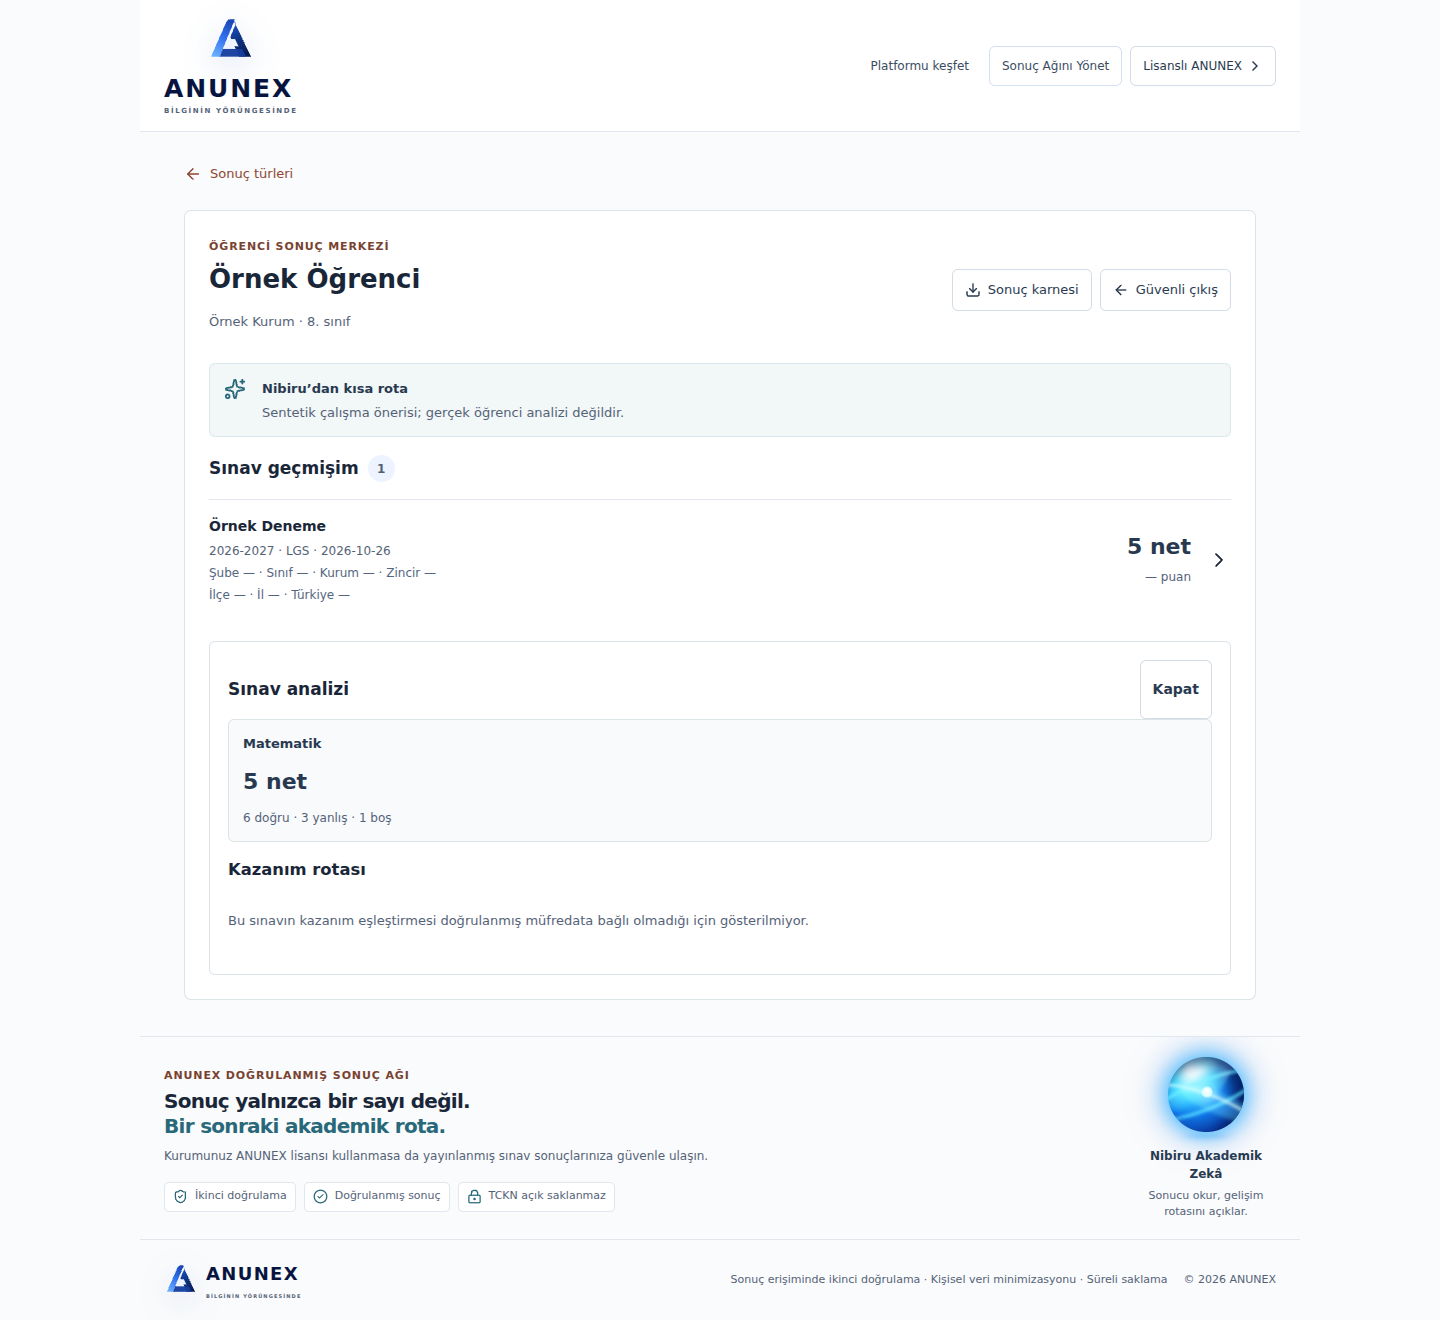
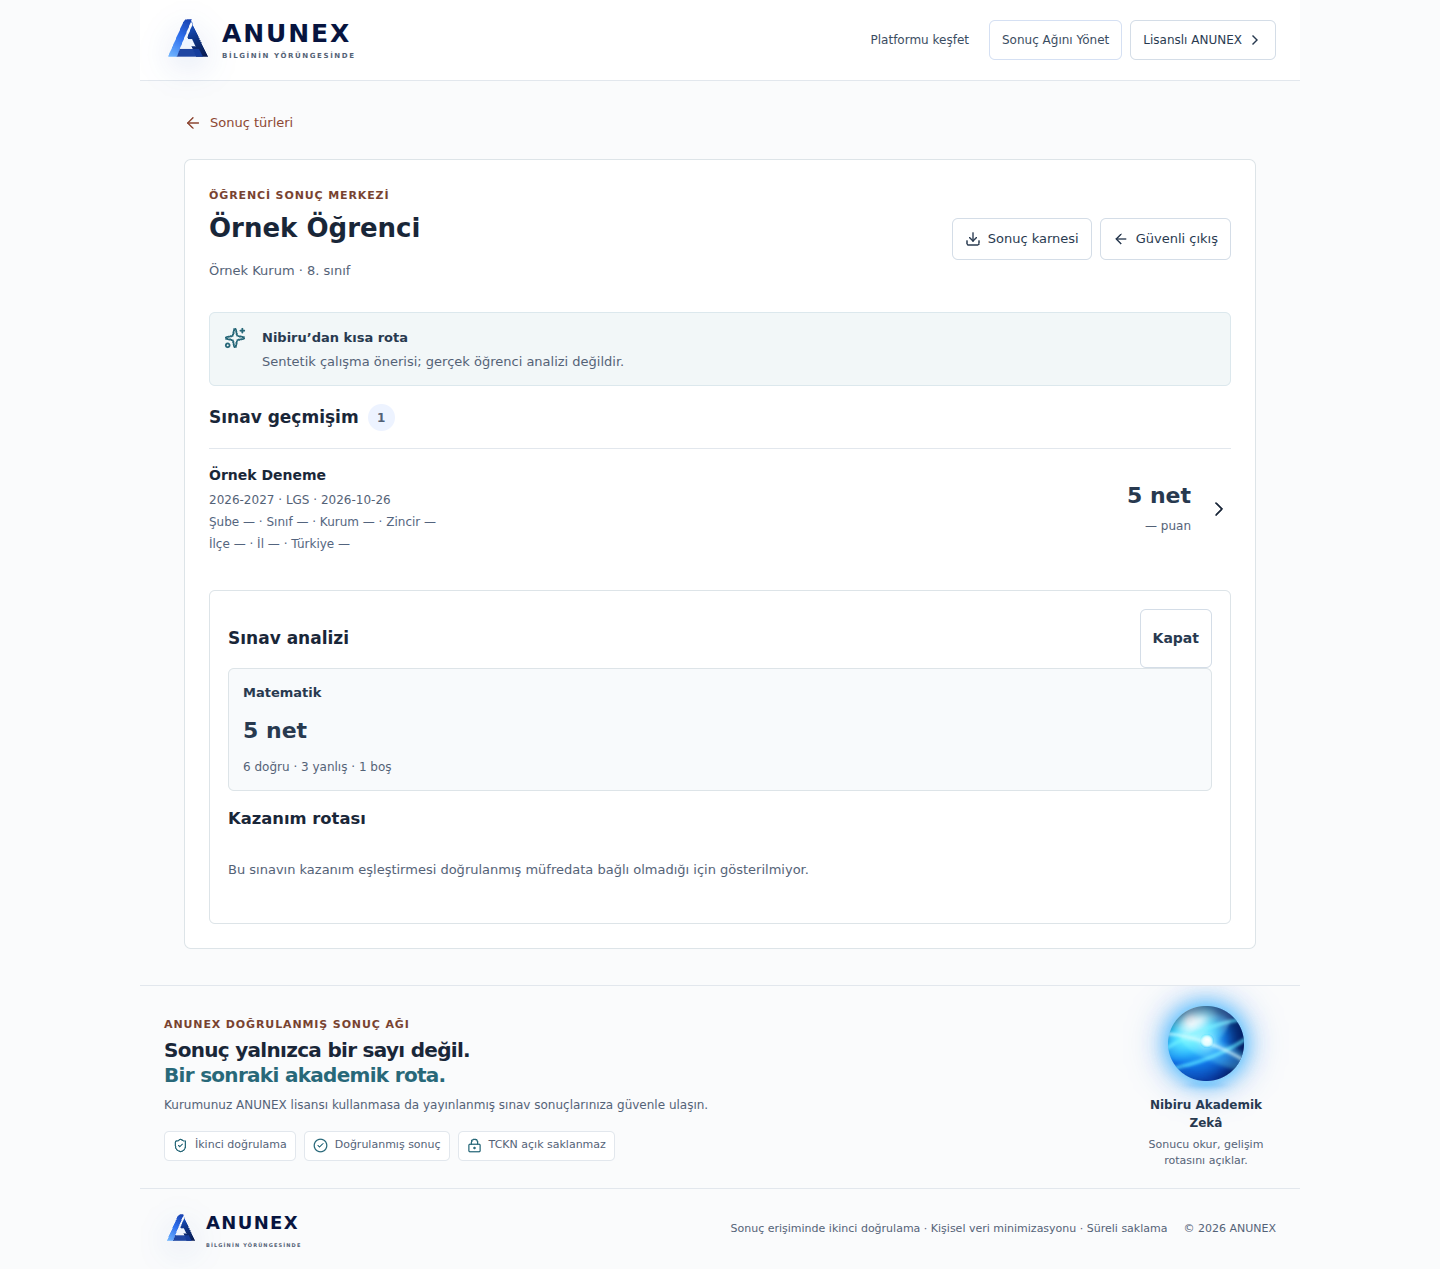
design(d007): Astra reference polish and current-main visual verification

diff --git a/src/pages/approved-result-student.css b/src/pages/approved-result-student.css
@@ -3,6 +3,7 @@
  .result-portal.approved-result-portal { --rp-ink:#192638; --rp-blue:#9e4837; --rp-line:#dde4e8; --rp-cyan:#286879; color:#192638; background:#fafbfc; font-size:14px; line-height:1.5; }
  .result-portal.approved-result-portal:not(.admin-portal-mode) { display:flex; flex-direction:column; }
  .approved-result-portal:not(.admin-portal-mode) .result-nav { order:0; width:100%; max-width:1160px; min-height:76px; height:auto; padding:16px 24px; gap:20px; border-bottom:1px solid #e2e7ed; background:#fff; }
+ .approved-result-portal:not(.admin-portal-mode) .result-brand>.anunex-brand-canonical { flex-direction:row; gap:10px; }
  .approved-result-portal .result-nav nav { gap:8px; flex-wrap:wrap; justify-content:flex-end; }
  .approved-result-portal .result-nav nav a { min-height:40px; padding:6px 12px; border-radius:6px; font-size:12px; color:#394b60; font-weight:500; }
  .approved-result-portal .result-nav nav .result-login-link { background:#fff; border:1px solid #d4dde7; color:#28394f; }
@@ -89,8 +90,8 @@
  @media(max-width:980px) { .approved-result-portal:not(.admin-portal-mode) .result-role-grid { grid-template-columns:1fr; } .approved-result-portal:not(.admin-portal-mode) .result-license-story { grid-template-columns:1fr; } }
  @media(max-width:620px) {
   .approved-result-portal:not(.admin-portal-mode) .result-nav { padding:14px 16px; gap:12px; flex-wrap:wrap; }
-  .approved-result-portal .result-nav nav { width:100%; justify-content:flex-start; }
-  .approved-result-portal .result-nav nav>a { display:inline-flex; font-size:11px; padding:6px 8px; }
+  .approved-result-portal .result-nav nav { display:grid; grid-template-columns:repeat(3,minmax(0,1fr)); width:100%; gap:6px; }
+  .approved-result-portal .result-nav nav>a { display:inline-flex; min-width:0; justify-content:center; text-align:center; font-size:11px; padding:6px 4px; }
   .approved-result-portal:not(.admin-portal-mode) .result-hero { padding:24px 16px; grid-template-columns:1fr; gap:16px; }
   .approved-result-portal .result-planet-hero { width:100%; min-height:0; flex-direction:row; justify-content:flex-start; }
   .approved-result-portal .result-planet-hero .nibiru-mark { --nibiru-size:48px !important; }

diff --git a/docs/design/approved-result-student/README.md b/docs/design/approved-result-student/README.md
@@ -13,13 +13,11 @@ Yalnız görünüm. Mevcut Türkçe metinler, erişim doğrulaması, state/effec
 - Mevcut rapor ön izlemesi kesin yayımlanmış sonuç gibi gösterilmez; eksik sıralama/puan sıfır yapılmaz.
 - Büyük tanıtım alanı küçültülür; seçilen rolün form/iş alanı öne alınır. Orijinal marka ve Nibiru varlıkları korunur.
 
-## Kapsam dışı teknik uyumsuzluk
+## Teknik eşgüdüm ve yayın
 
-Son karar: sonuç portalında genel öğrenci sicili eşleştirmesi istenmiyor; yalnız çift optikte eşleşmeyen kayıtlar istisna olabilir. Mevcut operasyon bileşeni genel MATCH/GUEST/CANCEL incelemesi içeriyor. Bu tasarım işi bunları kaldırmaz veya gizlemez; ayrı teknik düzeltme gerekir. Mevcut ağ yöneticisi yerleşimi de işleyiş değişikliği yapılmadan korunur. Öğrencinin sonuç erişim kodu doğrulaması bu eşleştirmeden farklıdır ve korunur.
+Bu tasarımlar güncel teknik ana dal 32bb3e622f3a5a2f48eef08607abdce1e9baee01 üzerine birlikte alınarak yeniden doğrulanır. S030/S031 teknik çalışmaları genel misafir adımını kaldırdı, kurum raporu/karneleri ve ayrı yazdırma akışını ekledi. Bu PR bu iş kurallarını değiştirmez. Eski rapor ekran görüntüleri güncel görüntülerle yenilenir; sentetik kontrol canlı veri veya fiziksel çıktı kanıtı değildir.
 
-## Yayın
-
-Normal app üretim dağıtımı, sonuç portalının dağıtıldığı anlamına gelmez. Mevcut `Deploy ANUNEX Result Network` iş akışı main dalından ayrıca çalıştırılmalı; önceden bağlı alan adı için `attach_domain=false`. Korunan `.github/` tetikleyicisi değiştirilmez.
+S031 ile sonuç portalı, başarılı `Deploy Production Cloudflare Worker` dağıtımını aynı commit üzerinden izler. Üretim ortamı onayı korunur. Sonuç portalının kendi `Deploy ANUNEX Result Network` çalışması başarıyla bitmeden portal canlı kabul edilmez. Tasarım işi `.github/` dosyalarına dokunmaz.
 
 ## Bu adım
 
@@ -30,3 +28,13 @@ Normal app üretim dağıtımı, sonuç portalının dağıtıldığı anlamına
 Onaylı görsel: https://chatgpt.com/library?file_id=libfile_909a4835cf008191b03bb9cb22aff2fc&account_id=personal
 
 Güncel ana dal 6c5579f22e6e850fb88bd783757099b357995a95 üzerinde typecheck/build ve 321 dosya / 1423 test geçti. Üç rol + uygulama kabuğu için toplam 42 sentetik tarayıcı senaryosu doğrulandı.
+
+## Astra son görsel incelemesi
+
+Onaylı üç referans ve mevcut görüntüler Astra tarafından incelendi. Orijinal marka yatay hizaya alındı; telefonda üç bağlantı kompakt ve 40 px hedeflerle korundu. Bayi ana işlemi onaylı sıcak vurgu rengine getirildi. Kurum/bayi özetleri yeni üçlü teknik yapıya uyarlandı. İşleyiş, metinler ve yetkiler değiştirilmedi.
+
+## Güncel ana dal kontrol notu
+
+32bb3e62 üzerinde typecheck/build geçti. Tam yerel koşu: 317 dosya başarılı, 5 dosyada 6 süre aşımı (toplam322 dosya/1427 test). Test dosyaları ve süre sınırları değiştirilmedi; ayrı tekrar yapıldı. Son merge için güncel PR GitHub verify kontrollerinin tamamının başarı koşulu korunur.
+
+S031 kurum raporunda önceki `reportSource` yayın/önizleme etiketi artık görünmüyor. Bu görünüm PR’si bunu değiştirmiyor; teknik inceleme gerektirir. Raporda yayın/önizleme ayrımının eksiksiz korunduğu iddia edilmez.
